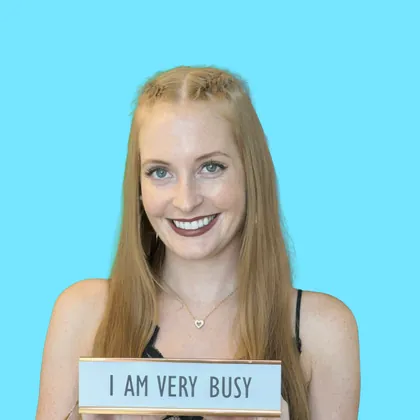
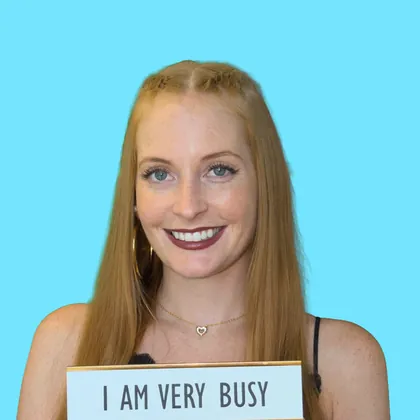
Careers: swap Natalie, add Amber, three lines, new hero photo
Natalie replaced with the newer source, which frames the sign properly rather than
needing a rescue crop. Amber added, taking the wall to 26.

Kept to three lines as asked: nine across gives 9, 9, 8 with the short row centred.
Held at 1500, 1440, 1280 and 1150px. Left a comment on the rule that the divisor is
ceil(count / 3), so the next person who joins does not silently make it four rows.

Hero photo replaced with the tighter crop. It was mirrored again, cap reading
'kroY weN' and the membership sign reversed, so it is flipped back the same way as
the last one. Worth knowing for future shots: these are coming off a front camera
with the flip baked in, so the text in every one of them will need correcting.

Cropped biased to the top, since the bottom of the frame was mostly empty counter.

Verified: 131 pages build, div and section balance, CSS braces balanced, 102/102
FAQ parity, assets resolve, 26 faces and none broken.

diff --git a/teamwork-cms/src/assets/css/style.css b/teamwork-cms/src/assets/css/style.css
@@ -6341,7 +6341,10 @@ main > .hero.hpos-hero:first-child { margin-top: -85px; padding-top: 112px; }
    wall of people look muted and greyed-out. */
 .tmos { display: flex; flex-wrap: wrap; gap: 10px; justify-content: center; }
 .tmos img {
-  flex: 0 0 calc((100% - 6 * 10px) / 7);
+  /* Nine across so the current face count lands in three lines, which is the
+     shape asked for. If the count changes, this divisor is what to revisit:
+     ceil(count / 3). */
+  flex: 0 0 calc((100% - 8 * 10px) / 9);
   /* Flex items default to min-width:auto, which for a replaced element is its
      intrinsic width. Without this the 420px source wins and the basis is ignored. */
   min-width: 0;
@@ -6350,8 +6353,9 @@ main > .hero.hpos-hero:first-child { margin-top: -85px; padding-top: 112px; }
   transition: transform 0.25s ease, box-shadow 0.25s ease;
 }
 .tmos img:hover { transform: translateY(-3px) scale(1.03); box-shadow: 0 18px 34px -20px rgba(0,0,0,0.8); }
-@media (max-width: 1040px) { .tmos img { flex-basis: calc((100% - 5 * 10px) / 6); } }
-@media (max-width: 760px)  { .tmos img { flex-basis: calc((100% - 3 * 10px) / 4); } }
+@media (max-width: 1100px) { .tmos img { flex-basis: calc((100% - 6 * 10px) / 7); } }
+@media (max-width: 860px)  { .tmos img { flex-basis: calc((100% - 4 * 10px) / 5); } }
+@media (max-width: 660px)  { .tmos img { flex-basis: calc((100% - 3 * 10px) / 4); } }
 @media (max-width: 460px)  { .tmos img { flex-basis: calc((100% - 2 * 10px) / 3); } }
 
 /* Cares events. Photo left, copy right, alternating. */
